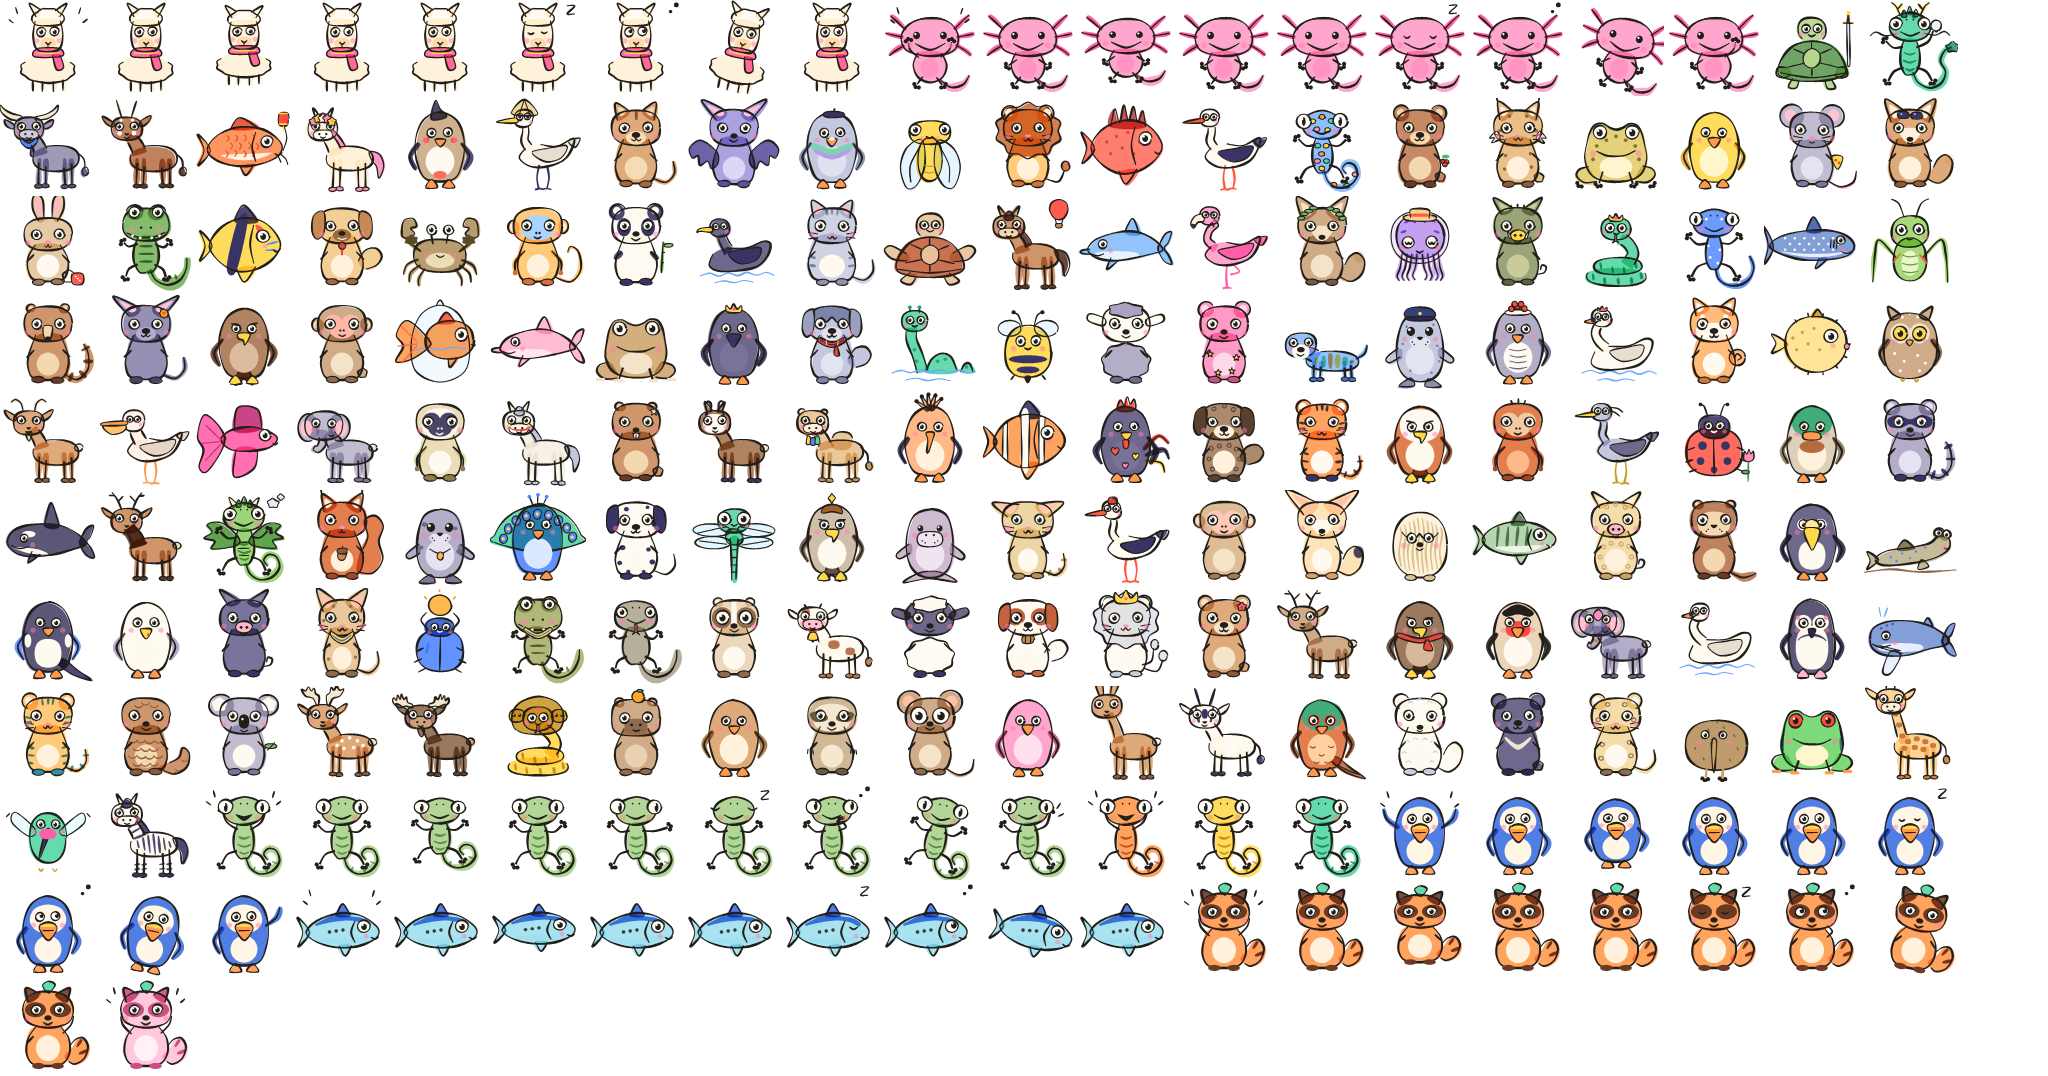
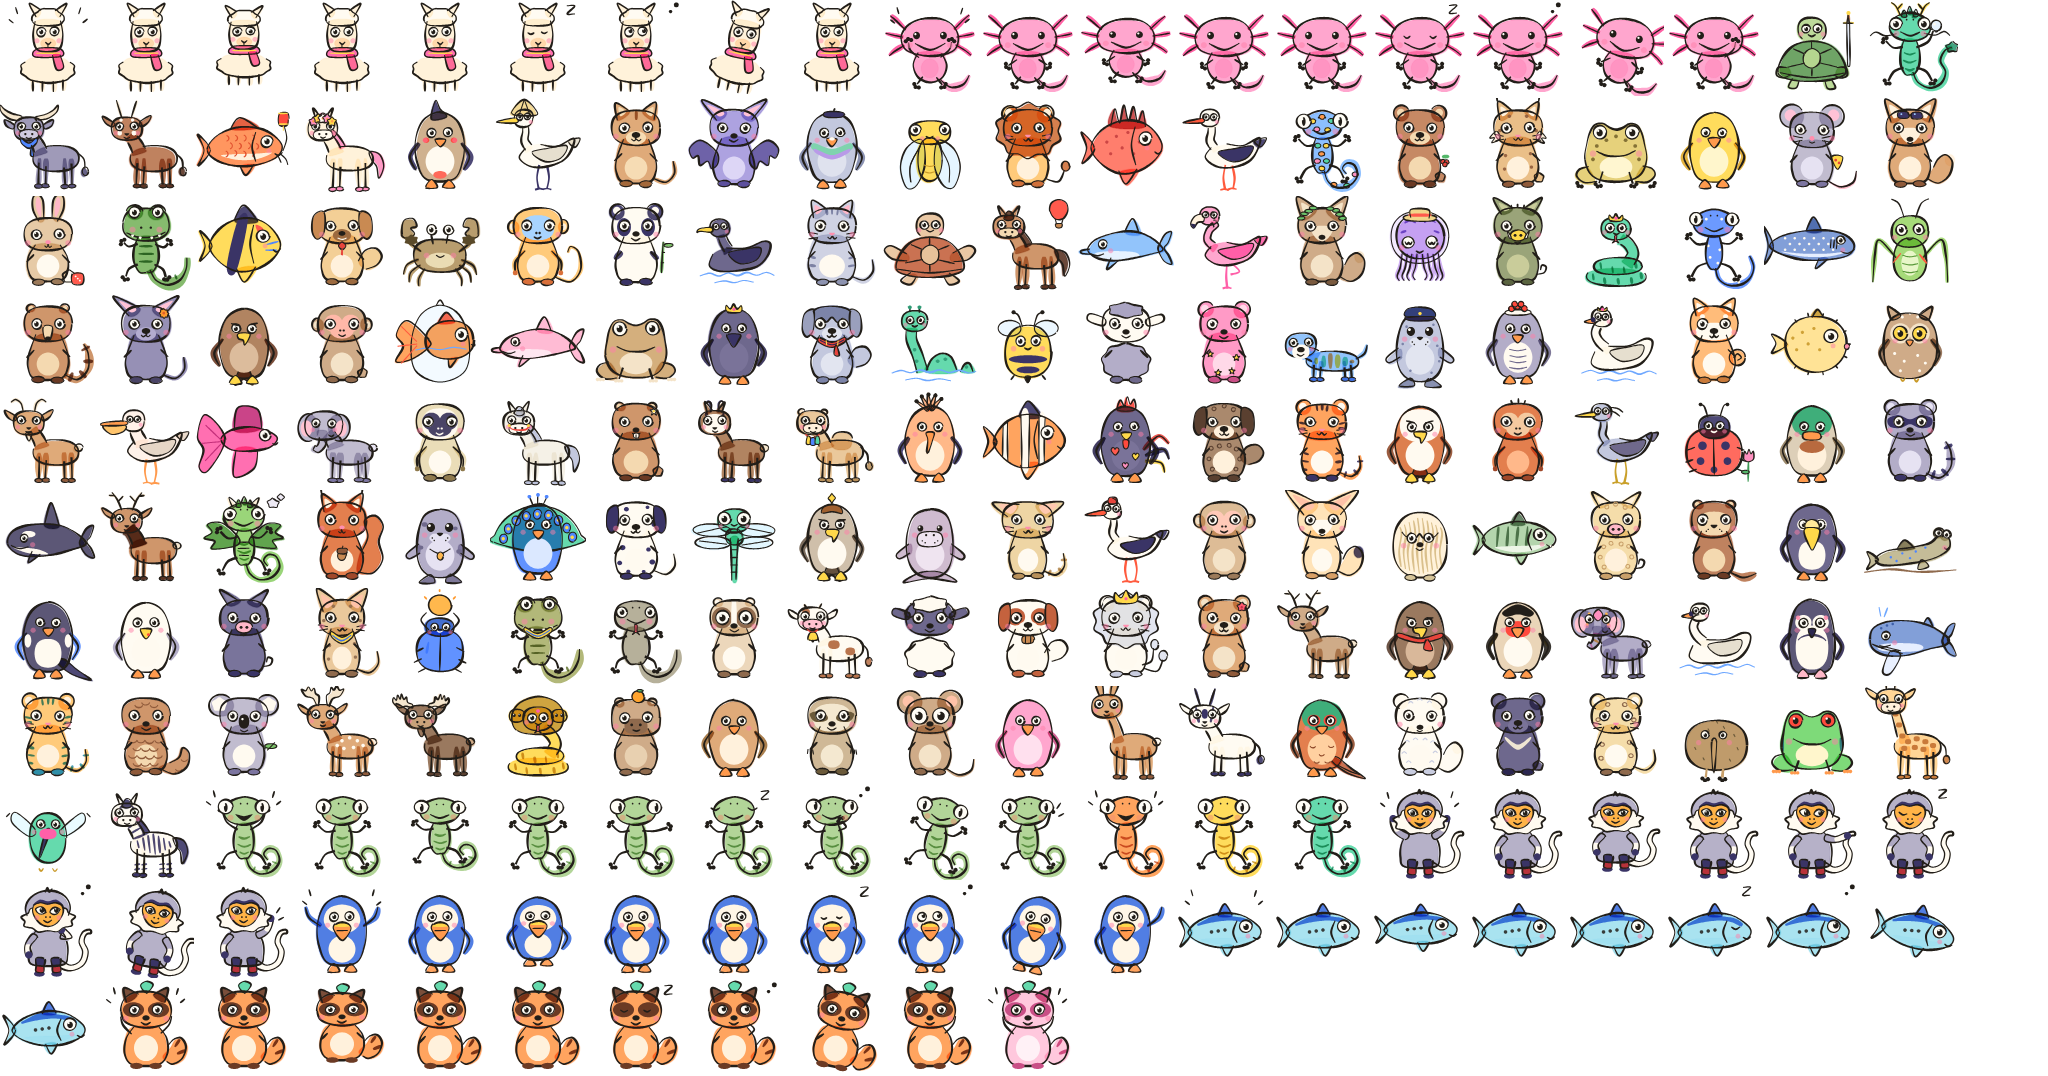
feat(critter-art): add Chà Vá of Đà Nẵng to the Vietnam set
Appends #151 as a guide critter drawn by the langur kind and bakes its web
stickers and share-card sprites with the other guides.

Changed region(s): [[0.0, 0.7361, 0.9688, 1.0]]

diff --git a/packages/critter-art/src/core/variants.test.ts b/packages/critter-art/src/core/variants.test.ts
@@ -8,9 +8,17 @@ import type { RenderSpec } from './model';
 import { applyMaskVariant, applyMonoVariant, applyStampVariant } from './variants';
 
 const BASE: RenderSpec = { kind: 'heart', seed: 7 };
-const GUIDE_KINDS = ['gecko', 'tanuki', 'puffin', 'axolotl', 'sardine', 'alpaca'] as const;
-/** 150 critters (144 locals + 6 guide cp-id aliases) + the 6 guides by their own kind name = 156. */
-const ALL_156_KINDS = [...critters.map((c) => c.id), ...GUIDE_KINDS];
+const GUIDE_KINDS = [
+  'gecko',
+  'tanuki',
+  'puffin',
+  'axolotl',
+  'sardine',
+  'alpaca',
+  'langur',
+] as const;
+/** 151 critters (144 locals + 7 guide cp-id aliases) + the 7 guides by their own kind name = 158. */
+const ALL_KINDS = [...critters.map((c) => c.id), ...GUIDE_KINDS];
 
 describe('applyMaskVariant', () => {
   it('recolours every op to one colour and forces full opacity on wash/fill', () => {
@@ -23,11 +31,11 @@ describe('applyMaskVariant', () => {
     }
   });
 
-  it('covers all 156 kinds (150 critters incl. guide aliases + the 6 guides)', () => {
-    expect(ALL_156_KINDS).toHaveLength(156);
+  it('covers all 158 kinds (151 critters incl. guide aliases + the 7 guides)', () => {
+    expect(ALL_KINDS).toHaveLength(158);
   });
 
-  it.each(ALL_156_KINDS)('%s has 0 off-palette ops in mask mode', (kind) => {
+  it.each(ALL_KINDS)('%s has 0 off-palette ops in mask mode', (kind) => {
     const model = build({ kind, seed: 7, variant: 'mask', maskColor: '#3a3466' }, 96);
     const colors = [...new Set(model.ops.map((op) => op.color))];
     expect(colors).toEqual(['#3a3466']);

diff --git a/packages/critter-art/src/data/critters.ts b/packages/critter-art/src/data/critters.ts
@@ -154,4 +154,5 @@ export const critters: readonly Critter[] = [
   {"id":"cp-148","no":148,"num":"#148","name":"Lundi","species":"Atlantic puffin","city":"Reykjavík","place":"Iceland","code":"is","setGroup":3,"rank":58,"spec":{"k":"puffin"},"kind":"puffin"},
   {"id":"cp-149","no":149,"num":"#149","name":"Zunzún","species":"Bee hummingbird","city":"Havana","place":"Cuba","code":"cu","setGroup":3,"rank":59,"spec":{"b":"bird","v":"humming","c":["#54d6a4","#2e9a74","#dff7ea"],"beak":"needle","bc":"#3a3466"},"kind":"cp-149"},
   {"id":"cp-150","no":150,"num":"#150","name":"Milia","species":"Plains zebra","city":"Serengeti","place":"Tanzania","code":"tz","setGroup":3,"rank":60,"spec":{"b":"stand","v":"horse","c":["#fffaf0","#3a3466","#fffaf0"],"pat":"zebra","mc":"#3a3466"},"kind":"cp-150"},
+  {"id":"cp-151","no":151,"num":"#151","name":"Chà Vá","species":"Red-shanked douc langur","city":"Đà Nẵng","place":"Vietnam","code":"vn","setGroup":0,"rank":null,"spec":{"k":"langur"},"kind":"langur"},
 ];

diff --git a/packages/critter-art/src/kinds/locals/register.test.ts b/packages/critter-art/src/kinds/locals/register.test.ts
@@ -10,10 +10,10 @@ const LOCAL_CRITTERS = critters.filter((c) => !isGuideSpec(c.spec));
 const GUIDE_CRITTERS = critters.filter((c) => isGuideSpec(c.spec));
 
 describe('registerLocalKinds (via src/kinds/registry)', () => {
-  it('registers all 150 critters (144 locals + 6 guide aliases)', () => {
-    expect(critters).toHaveLength(150);
+  it('registers all 151 critters (144 locals + 7 guide aliases)', () => {
+    expect(critters).toHaveLength(151);
     expect(LOCAL_CRITTERS).toHaveLength(144);
-    expect(GUIDE_CRITTERS).toHaveLength(6);
+    expect(GUIDE_CRITTERS).toHaveLength(7);
     for (const c of critters) expect(hasKind(c.id)).toBe(true);
   });
 

diff --git a/packages/critter-bake/src/render-job.test.ts b/packages/critter-bake/src/render-job.test.ts
@@ -53,7 +53,7 @@ describe('expandManifest', () => {
 
   it("expands kind: 'all' to every registered critter", () => {
     const jobs = expandManifest([target({ kind: 'all', sizesPt: [60] })]);
-    expect(jobs.length).toBe(150);
+    expect(jobs.length).toBe(151);
   });
 });
 

diff --git a/packages/critter-art/src/data/places.ts b/packages/critter-art/src/data/places.ts
@@ -19,6 +19,7 @@ export const places: readonly Place[] = [
       'cp-008',
       'cp-009',
       'cp-010',
+      'cp-151',
     ],
   },
   {
